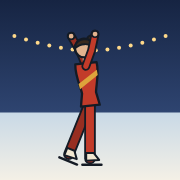
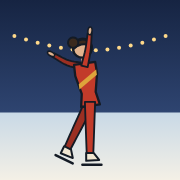
Eiskunstlauf 0.2.1: elegantere Bewegungen
Claude-Session: https://claude.ai/code/session_014DHnXgtg4kguC8BCH6aDVR

Changed region(s): [[0.25, 0.1389, 0.5556, 0.9444], [0.4722, 0.4444, 0.5, 0.4722]]

diff --git a/index.html b/index.html
@@ -870,28 +870,29 @@ tr.fall td.e, tr.miss td.e { color: var(--red); }
   // Posen: Winkel in Grad ab senkrecht nach unten, + = nach vorn (Laufrichtung). sL Standbein, fL Spielbein [Hüfte, Knie],
   // aF/aB Arm vorn/hinten [Schulter, Ellbogen], lean Rumpfneigung, crouch Kniebeuge in Pixeln
   const POSES = {
-    glide: { lean: 10, crouch: 2, sL: [0, 0], fL: [-55, 15], aF: [95, 5], aB: [-105, -5] },
-    stroke: { lean: 14, crouch: 4, sL: [6, 12], fL: [-30, 12], aF: [70, 20], aB: [-80, 10] },
-    prep: { lean: 18, crouch: 7, sL: [10, 26], fL: [-20, 32], aF: [40, 45], aB: [-40, 30] },
-    air: { lean: 0, crouch: 0, sL: [3, 4], fL: [7, 4], aF: [35, 120], aB: [35, 120] },
-    land: { lean: 12, crouch: 6, sL: [6, 16], fL: [-72, 5], aF: [100, 0], aB: [-100, 0] },
-    spin: { lean: -4, crouch: 3, sL: [0, 4], fL: [40, 70], aF: [55, 110], aB: [55, 110] },
-    sitspin: { lean: 28, crouch: 0, sL: [86, 100], fL: [84, 2], aF: [82, 4], aB: [76, 8] },
-    camel: { lean: 84, crouch: 0, sL: [2, 2], fL: [-96, 0], aF: [100, 0], aB: [-112, 0] },
-    stepA: { lean: 6, crouch: 4, sL: [8, 12], fL: [-28, 30], aF: [75, 25], aB: [-70, 20] },
-    stepB: { lean: 6, crouch: 4, sL: [-8, 12], fL: [28, 30], aF: [-70, 20], aB: [75, 25] },
-    stepU: { lean: -2, crouch: 0, sL: [0, 2], fL: [-15, 10], aF: [150, 10], aB: [-150, 10] },
-    stepD: { lean: 22, crouch: 9, sL: [10, 30], fL: [-35, 20], aF: [30, 10], aB: [-30, 10] },
-    final: { lean: -6, crouch: 0, sL: [0, 0], fL: [-22, 0], aF: [160, 8], aB: [-158, 8] },
+    glide: { lean: 6, crouch: 1, sL: [0, 0], fL: [-62, 4], aF: [100, -12], aB: [-108, -10] },
+    stroke: { lean: 10, crouch: 3, sL: [5, 14], fL: [-34, 8], aF: [90, -6], aB: [-98, -6] },
+    prep: { lean: 14, crouch: 6, sL: [8, 24], fL: [-34, 18], aF: [62, 28], aB: [-72, 18] },
+    air: { lean: 0, crouch: 0, sL: [2, 2], fL: [6, 2], aF: [30, 125], aB: [30, 125] },
+    land: { lean: 8, crouch: 5, sL: [6, 16], fL: [-80, 0], aF: [104, -14], aB: [-114, -12] },
+    spin: { lean: -2, crouch: 2, sL: [0, 2], fL: [30, 80], aF: [42, 108], aB: [42, 108] },
+    sitspin: { lean: 26, crouch: 0, sL: [86, 100], fL: [84, 0], aF: [86, -4], aB: [80, -2] },
+    camel: { lean: 84, crouch: 0, sL: [1, 1], fL: [-98, 0], aF: [96, -8], aB: [-118, -8] },
+    stepA: { lean: 5, crouch: 3, sL: [7, 12], fL: [-30, 20], aF: [88, -8], aB: [-84, -8] },
+    stepB: { lean: 5, crouch: 3, sL: [-7, 12], fL: [26, 20], aF: [-76, -6], aB: [92, -8] },
+    stepU: { lean: -4, crouch: 0, sL: [0, 2], fL: [-20, 4], aF: [158, -6], aB: [-156, -6] },
+    stepD: { lean: 18, crouch: 8, sL: [10, 30], fL: [-46, 6], aF: [70, -10], aB: [-74, -10] },
+    final: { lean: -8, crouch: 0, sL: [0, 0], fL: [-26, 0], aF: [168, 6], aB: [-102, -16] },
     fallen: { lean: 10, crouch: 2, sL: [30, 60], fL: [-10, 50], aF: [60, 30], aB: [-30, 40] },
   };
+
   // Laufschritt: ein Takt = ein Schritt. Abstoßen (Spielbein drückt nach hinten außen), Gleiten mit gestrecktem Spielbein,
   // Heranführen; danach wechseln Stand- und Spielbein (swap). Anfang und Ende passen ohne Sprung zusammen.
   const STROKE = [
-    [0.0, { lean: 13, crouch: 6, sL: [3, 24], fL: [3, 22], aF: [84, 14], aB: [-94, 10] }],
-    [0.32, { lean: 15, crouch: 5, sL: [8, 20], fL: [-64, 4], aF: [94, 6], aB: [-104, 4] }],
-    [0.72, { lean: 9, crouch: 1, sL: [2, 4], fL: [-48, 10], aF: [98, 2], aB: [-108, 2] }],
-    [1.0, { lean: 13, crouch: 6, sL: [3, 22], fL: [3, 24], aF: [84, 14], aB: [-94, 10] }],
+    [0.0, { lean: 9, crouch: 5, sL: [3, 20], fL: [3, 18], aF: [92, -6], aB: [-100, -6] }],
+    [0.32, { lean: 11, crouch: 4, sL: [8, 16], fL: [-66, 2], aF: [98, -10], aB: [-106, -10] }],
+    [0.72, { lean: 6, crouch: 1, sL: [1, 2], fL: [-58, 2], aF: [104, -14], aB: [-112, -14] }],
+    [1.0, { lean: 9, crouch: 5, sL: [3, 18], fL: [3, 20], aF: [92, -6], aB: [-100, -6] }],
   ];
   function strokePose(u) {
     u = ((u % 1) + 1) % 1;
@@ -900,6 +901,15 @@ tr.fall td.e, tr.miss td.e { color: var(--red); }
     return mix(A, B, t * t * (3 - 2 * t));
   }
   const KEYS = ["lean", "crouch"], PAIRS = ["sL", "fL", "aF", "aB"];
+  // weich nachführen: Rumpf und Beine zügig, Arme etwas später (fließender Armzug); fast = Sprung, Sturz
+  const RATE = { lean: 9, crouch: 9, sL: 13, fL: 11, aF: 6.5, aB: 6 };
+  function ease(cur, tgt, dt, fast) {
+    if (!cur) return tgt;
+    const o = {}, m = fast ? 2.4 : 1, a = (k) => 1 - Math.exp(-RATE[k] * m * dt);
+    for (const k of KEYS) o[k] = cur[k] + (tgt[k] - cur[k]) * a(k);
+    for (const k of PAIRS) { const f = a(k); o[k] = [cur[k][0] + (tgt[k][0] - cur[k][0]) * f, cur[k][1] + (tgt[k][1] - cur[k][1]) * f]; }
+    return o;
+  }
   function mix(a, b, t) {
     const o = {};
     for (const k of KEYS) o[k] = a[k] + (b[k] - a[k]) * t;
@@ -925,11 +935,25 @@ tr.fall td.e, tr.miss td.e { color: var(--red); }
     ctx.fillStyle = fill; ctx.fill(); ctx.stroke();
   }
 
+  // Glied als weich gebogene, sich verjüngende Form (Oberschenkel kräftig, Knöchel und Handgelenk schmal)
   function limb(ctx, pts, w, col) {
-    ctx.beginPath(); ctx.moveTo(pts[0][0], pts[0][1]);
-    for (let i = 1; i < pts.length; i++) ctx.lineTo(pts[i][0], pts[i][1]);
-    ctx.strokeStyle = INK; ctx.lineWidth = w + 2.4; ctx.stroke();
-    ctx.strokeStyle = col; ctx.lineWidth = w; ctx.stroke();
+    const [A, B, C] = pts, smp = [];
+    // Catmull-Rom durch Hüfte/Schulter, Knie/Ellbogen, Knöchel/Hand
+    const P0 = [2 * A[0] - B[0], 2 * A[1] - B[1]], P3 = [2 * C[0] - B[0], 2 * C[1] - B[1]];
+    const cr = (p0, p1, p2, p3, t) => [0, 1].map((k) => 0.5 * ((2 * p1[k]) + (-p0[k] + p2[k]) * t + (2 * p0[k] - 5 * p1[k] + 4 * p2[k] - p3[k]) * t * t + (-p0[k] + 3 * p1[k] - 3 * p2[k] + p3[k]) * t * t * t));
+    for (let i = 0; i <= 6; i++) smp.push(cr(P0, A, B, C, i / 6));
+    for (let i = 1; i <= 6; i++) smp.push(cr(A, B, C, P3, i / 6));
+    const n = smp.length, L = [], R = [];
+    for (let i = 0; i < n; i++) {
+      const p = smp[i], q = smp[Math.min(n - 1, i + 1)], o = smp[Math.max(0, i - 1)];
+      let dx = q[0] - o[0], dy = q[1] - o[1]; const d = Math.hypot(dx, dy) || 1; dx /= d; dy /= d;
+      const u = i / (n - 1), hw = (w * (1.08 - 0.42 * u)) / 2;
+      L.push([p[0] - dy * hw, p[1] + dx * hw]); R.push([p[0] + dy * hw, p[1] - dx * hw]);
+    }
+    ctx.beginPath(); ctx.moveTo(L[0][0], L[0][1]);
+    for (const p of L.slice(1)) ctx.lineTo(p[0], p[1]);
+    for (const p of R.reverse()) ctx.lineTo(p[0], p[1]);
+    ctx.closePath(); ctx.fillStyle = col; ctx.fill(); ctx.strokeStyle = INK; ctx.lineWidth = 1.2; ctx.stroke();
   }
   function boot(ctx, ank, shinDeg) {
     // weißer Stiefel und Kufe; der Stiefel folgt dem Unterschenkel
@@ -975,16 +999,19 @@ tr.fall td.e, tr.miss td.e { color: var(--red); }
       const q = pts.map((pt, i) => P(pt, z0 + (z1 - z0) * i / (pts.length - 1)));
       parts.push({ d: depth(q), f: () => {
         limb(ctx, q, w, col);
-        if (hand) { const h = q[q.length - 1]; ctx.beginPath(); ctx.arc(h[0], h[1], 2.1, 0, 7); ctx.fillStyle = skin; ctx.strokeStyle = INK; ctx.lineWidth = 1.1; ctx.fill(); ctx.stroke(); }
+        if (hand) { // schmale Hand in Verlängerung des Unterarms
+          const h = q[q.length - 1], e = q[q.length - 2], an = Math.atan2(h[1] - e[1], h[0] - e[0]);
+          ctx.beginPath(); ctx.ellipse(h[0] + Math.cos(an) * 1.6, h[1] + Math.sin(an) * 1.6, 2.6, 1.35, an, 0, 7);
+          ctx.fillStyle = skin; ctx.strokeStyle = INK; ctx.lineWidth = 1; ctx.fill(); ctx.stroke(); }
         if (foot !== undefined) bootR(ctx, q[q.length - 1], foot, c);
       } });
     };
     // swap: Standbein auf der fernen Seite (Schrittwechsel); die nahe Seite ist heller
     const zs = o.swap ? -1 : 1;
-    limb3([hip, fKn, fAn], -Z.hip * zs, -Z.hip * zs, 5, zs > 0 ? suitD : suit, p.fL[0] - p.fL[1]);
-    limb3([hip, knee, ank], Z.hip * zs, Z.hip * 0.6 * zs, 5.2, zs > 0 ? suit : suitD, sKn);
-    limb3(aB, -Z.sh, -Z.sh - 2, 3.4, suitD, undefined, true);
-    limb3(aF, Z.sh, Z.sh + 2, 3.4, suit, undefined, true);
+    limb3([hip, fKn, fAn], -Z.hip * zs, -Z.hip * zs, 6, zs > 0 ? suitD : suit, p.fL[0] - p.fL[1]);
+    limb3([hip, knee, ank], Z.hip * zs, Z.hip * 0.6 * zs, 6.2, zs > 0 ? suit : suitD, sKn);
+    limb3(aB, -Z.sh, -Z.sh - 2, 4, suitD, undefined, true);
+    limb3(aF, Z.sh, Z.sh + 2, 4, suit, undefined, true);
     // Rumpf: Querschnitt als Ellipse (Tiefe im Profil, Breite von vorn); sichtbare halbe Breite je Höhe
     const hw = (dep, wid) => Math.sqrt((dep * c) ** 2 + (wid * sn) ** 2);
     const lvl = [[2.5, 6.2, 6.8], [-6, 4.6, 5.4], [-18, 7.2, 7.4], [-25.5, 7, 8.6]]; // [y im Rumpf, Tiefe, Breite]
@@ -1044,7 +1071,7 @@ tr.fall td.e, tr.miss td.e { color: var(--red); }
     ctx.restore();
   }
 
-  root.EKFigure = { POSES, mix, draw, strokePose, cleanLook, DEF_LOOK, SKIN, HAIRC, SUIT, HAIRS, shade };
+  root.EKFigure = { POSES, mix, ease, draw, strokePose, cleanLook, DEF_LOOK, SKIN, HAIRC, SUIT, HAIRS, shade };
 })(typeof window !== "undefined" ? window : globalThis);
 
 /* Cold Medal · Eiskunstlauf – Kulisse im Plakatstil: Wiener Eislaufverein am Abend.
@@ -1178,7 +1205,7 @@ tr.fall td.e, tr.miss td.e { color: var(--red); }
 /* COLD MEDAL EISKUNSTLAUF – Ablauf, Bildschirme, Eingabe, Taktband, Ergebnis, Spielstand. */
 (function () {
   "use strict";
-  const VERSION = "0.2";
+  const VERSION = "0.2.1";
   // Seiten-Einstellungen aus dem Build (eigenes Hosting: Adresse, Hoster, Impressum); im claude.ai-Artefakt leer
   const SITE = Object.assign({ web: false, url: "", impressum: null }, {"web": true, "url": "https://matpeins-debug.github.io/cold-medal-eiskunstlauf/", "hoster": "GitHub Pages (GitHub Inc., USA)", "drittland": "GitHub ist nach dem EU-US Data Privacy Framework zertifiziert; die Übermittlung in die USA stützt sich auf den Angemessenheitsbeschluss der EU-Kommission dazu.", "impressum": {"name": "", "adresse": "", "mail": ""}} || {});
   const M = window.EKMusic, K = window.EKSkate, F = window.EKFigure, SC = window.EKScene;
@@ -1607,7 +1634,8 @@ tr.fall td.e, tr.miss td.e { color: var(--red); }
       if (st.lift <= 0 && run.trailT > 0.03) { run.trailT = 0; run.trail.push([st.x, fy + 3.5, performance.now()]); if (run.trail.length > 80) run.trail.shift(); }
       drawTrail(run.trail, run.camX);
     }
-    F.draw(ctx, { x: fx, y: fy, s, dir: 1, pose: st.pose, lift: st.lift, turn: st.turn, tilt: st.tilt, swap: st.swap, look: S.look });
+    run.sp = F.ease(run.sp, st.pose, dt, st.lift > 1 || st.tilt < -0.3);
+    F.draw(ctx, { x: fx, y: fy, s, dir: 1, pose: run.sp, lift: st.lift, turn: st.turn, tilt: st.tilt, swap: st.swap, look: S.look });
     drawLane(t); drawPops();
     updateChips(t);
   }
@@ -1620,7 +1648,8 @@ tr.fall td.e, tr.miss td.e { color: var(--red); }
     const u = idleP / 1.14, fy = SC.footY(d);
     IDLE.tt += dt; if (IDLE.tt > 0.03) { IDLE.tt = 0; IDLE.trail.push([x, fy + 3.5, performance.now()]); if (IDLE.trail.length > 80) IDLE.trail.shift(); }
     drawTrail(IDLE.trail, camX);
-    F.draw(ctx, { x: x - camX, y: fy, s: SC.scaleAt(d), dir: 1, turn: IDLE.face, swap: Math.floor(u) % 2 === 1, pose: F.strokePose(u % 1), look: S.look });
+    IDLE.sp = F.ease(IDLE.sp, F.strokePose(u % 1), dt);
+    F.draw(ctx, { x: x - camX, y: fy, s: SC.scaleAt(d), dir: 1, turn: IDLE.face, swap: Math.floor(u) % 2 === 1, pose: IDLE.sp, look: S.look });
   }
 
   // ------------------------------------------------------------------ Ergebnis

diff --git a/sw.js b/sw.js
@@ -1,6 +1,6 @@
 // Cold Medal Eiskunstlauf: Offline-Speicher. Beim ersten Besuch wird alles geladen, danach startet das Spiel auch ohne Netz.
 // Die Seite selbst kommt zuerst aus dem Netz (neue Version), ohne Netz aus dem Speicher.
-const CACHE = "eiskunstlauf-0.2";
+const CACHE = "eiskunstlauf-0.2.1";
 const FILES = ["./", "index.html", "manifest.webmanifest", "icons/icon-192.png", "icons/icon-512.png", "icons/apple-touch-icon.png"];
 self.addEventListener("install", (e) => {
   e.waitUntil(caches.open(CACHE).then((c) => c.addAll(FILES)).then(() => self.skipWaiting()));

diff --git a/README.md b/README.md
@@ -2,4 +2,4 @@
 
 Inoffizielles Fanspiel im Browser: https://matpeins-debug.github.io/cold-medal-eiskunstlauf/
 
-Quellcode liegt privat; dieses Repo enthält nur die fertige Seite (Version 0.2).
+Quellcode liegt privat; dieses Repo enthält nur die fertige Seite (Version 0.2.1).
